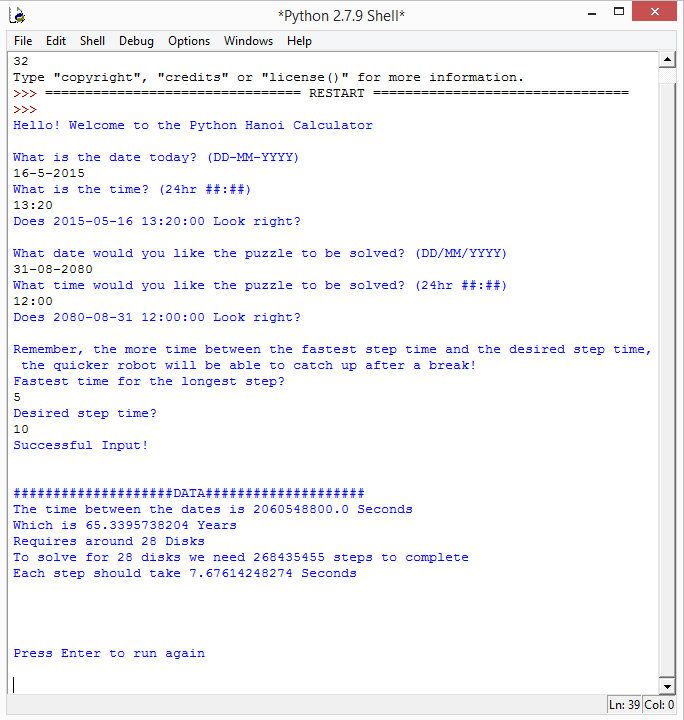
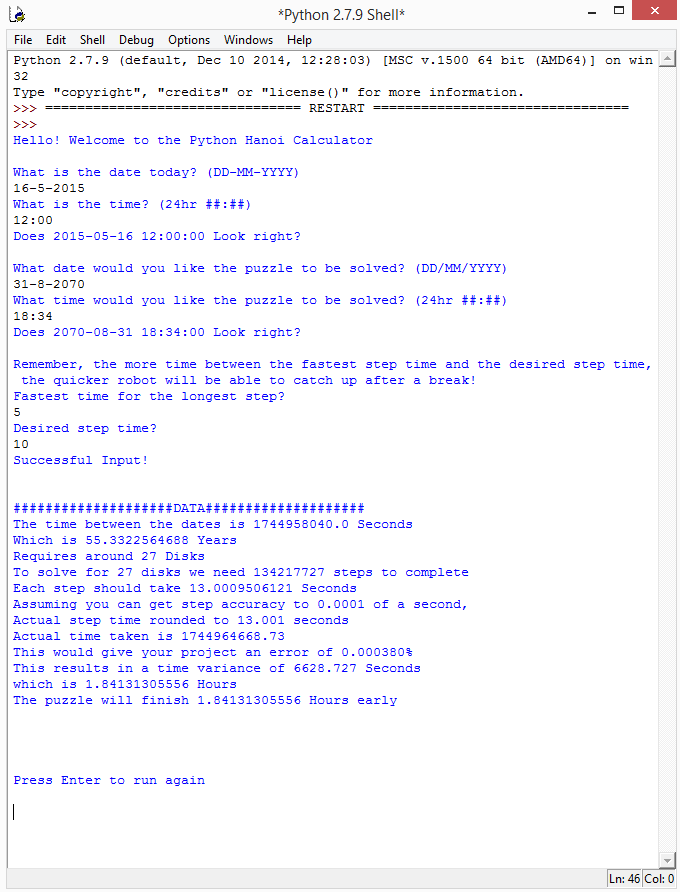
Error Calculation
Added error calculation which lets you know how much time the puzzle
will actually take to complete if the time per step is rounded to a more
achievable accuracy. Updated the screenshot to reflect this.

Changed region(s): [[0.0, 0.0, 1.0, 1.0], [0.0309, 0.8556, 0.3088, 0.9167], [0.525, 0.5806, 0.6176, 0.6111]]

diff --git a/Main/HanoiSolver.py b/Main/HanoiSolver.py
@@ -90,7 +90,26 @@ def GatherInputs():
     timePerStep = timeBetween/stepsNeeded
 
     print "Each step should take", timePerStep, "Seconds"
+
+    print "Assuming you can get step accuracy to 0.0001 of a second,"
+    print "Actual step time rounded to", round(timePerStep, 4), "seconds"
+    
+    actualTimeTaken = round(timePerStep, 4) * stepsNeeded
+    print "Actual time taken is", actualTimeTaken
+    
+    error = (timeBetween - actualTimeTaken)/timeBetween
+    print "This would give your project an error of", "{0:.6f}%".format(math.fabs(error)*100)
+    print "This results in a time variance of", math.fabs(timeBetween - actualTimeTaken), "Seconds"
+    print "which is", (math.fabs(timeBetween - actualTimeTaken) / 60)/60, "Hours"
+
+    if error > 0:
+        print "The puzzle will finish", (math.fabs(timeBetween - actualTimeTaken) / 60)/60, "Hours late"
+    else:
+        print "The puzzle will finish", (math.fabs(timeBetween - actualTimeTaken) / 60)/60, "Hours early"
+    
     print "\n\n\n"
+
+    
 
     
 if __name__ == '__main__':
